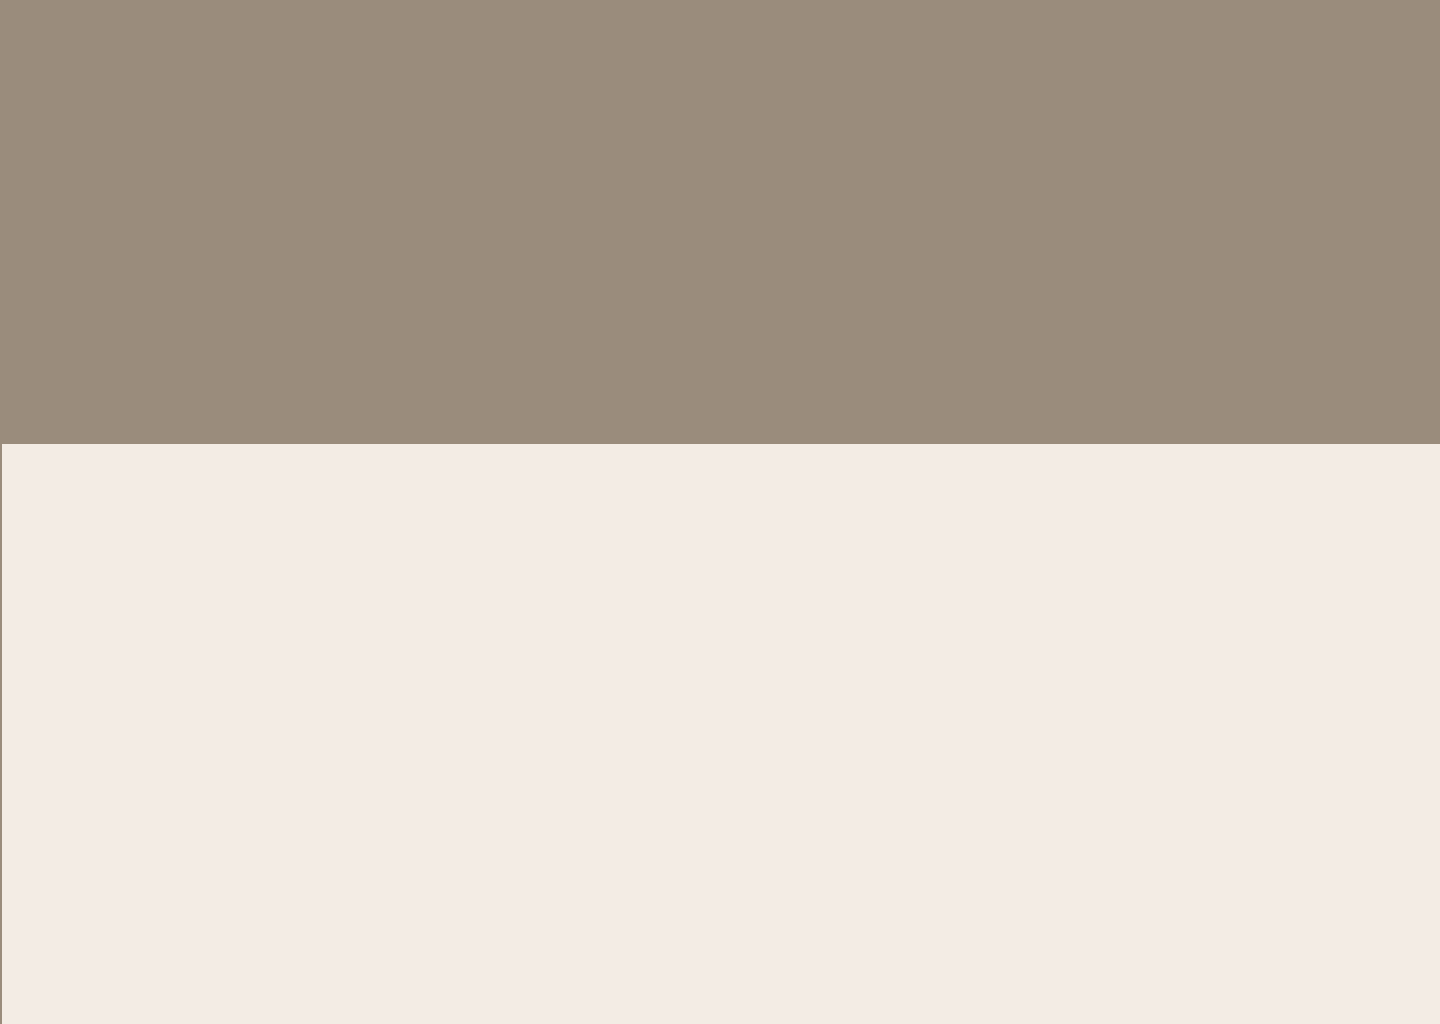
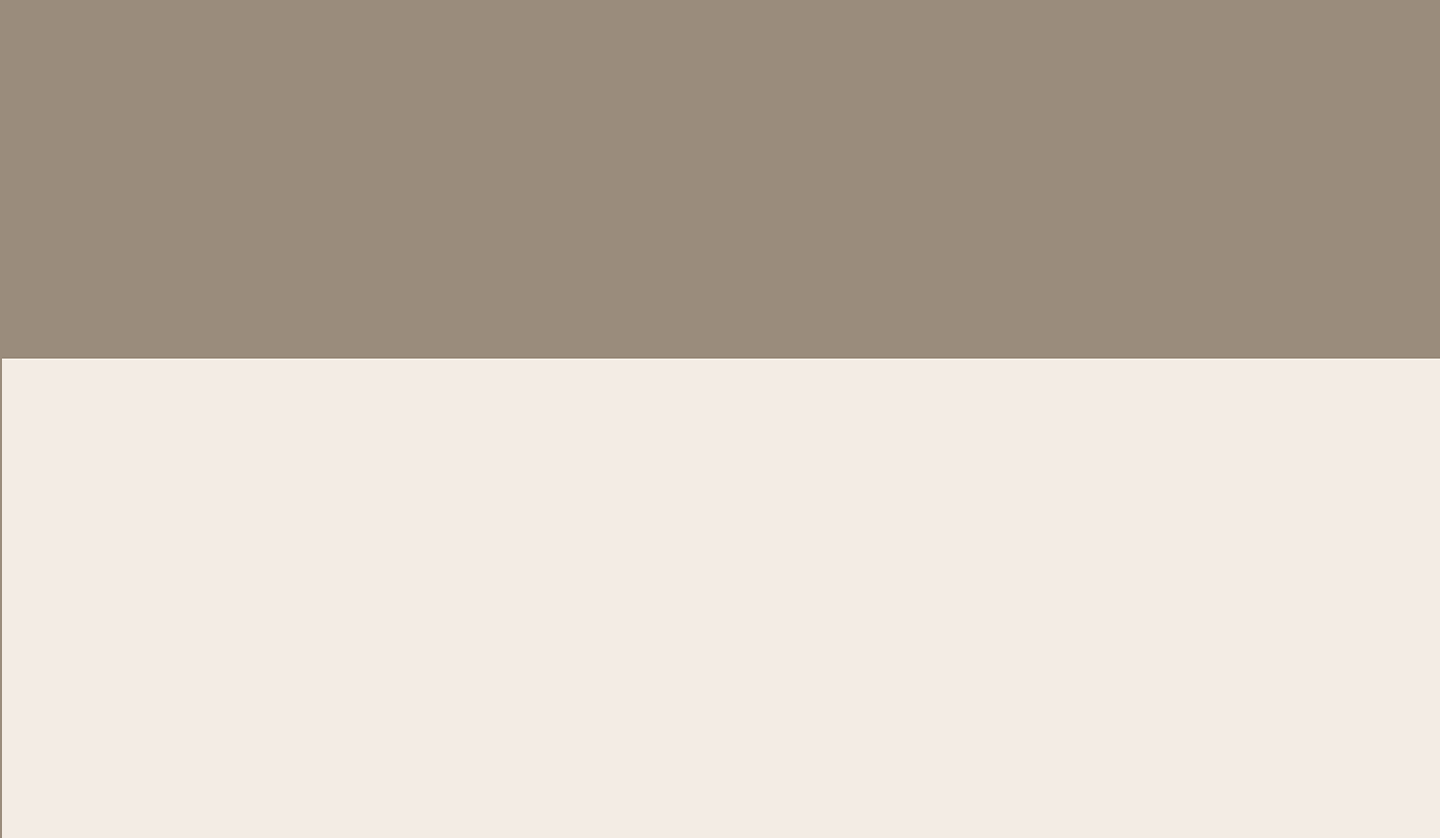
Update header

Changed region(s): [[0.0, 0.4033, 1.0, 0.4344]]

diff --git a/src/components/cost/cost.jsx b/src/components/cost/cost.jsx
@@ -8,11 +8,11 @@ const Cost =()=>{
     return(
         <div className={styles.costWork}>
              <h2 className={styles.costTitle}>Стоимость</h2> 
-             <p>      Оплата производится в следующем порядке: 50 процентов перед началом работ и обмерами (при заключении договора) и 50 процентов при сдаче  при сдаче готового дизайн проекта. 
+             <p>      Оплата производится в следующем порядке: 50 % перед началом работ и обмерами (при заключении договора) и 50 % при сдаче  при сдаче готового дизайн проекта. 
                 Все этапы по дизайн-проекту входят в данную стоимость. 
                 Авторский надзор оплачивается отдельно, все консультации в офисе и по телефону бесплатно.</p>
                 <p>Важно! Выполняем проекты по всей России с обмерами от заказчика. 
-                Пример готового альбома с дизайном проектом отправляем на почту по запросу.</p> 
+                Пример готового альбома с дизайном проекта отправляем на почту по запросу.</p> 
                 <div className={styles.calculator}>
                 <a href="a" className={styles.calculatorButton}>
                 Калькулятор вашего проекта

diff --git a/src/components/header/header.jsx b/src/components/header/header.jsx
@@ -1,5 +1,5 @@
 import {NavigationButton} from '../shared/NavigationButton'
-import pictureBackground from '../shared/assets/picture-background-1.png'
+import pictureBackground from '../shared/assets/picture-background.png'
 import './header.css'
 
 
@@ -16,14 +16,16 @@ export const Header =()=>{
 
     return <div className='header_fon'>
             <div className='asdasdasd'>         
-        
-        <div>
+         
+        <div className='aaa'>
                    {navigations.map((navigation)=><NavigationButton text={navigation.text} link={navigation.link}/>)}
+                
         </div>
-        <div>
-            <img src={pictureBackground} alt="img" />
             
-        </div>
+        
+        
+            
+        
     
     </div>
     </div>

diff --git a/src/components/header/header.css b/src/components/header/header.css
@@ -1,4 +1,21 @@
 .header_fon{
     background-image: url("./../shared/assets/header_fon.png");
     width: 100vw;
+    align-items: center;
+   padding-top: 30px;
+}
+.aaa{
+
+   
+ 
+}
+.asdasdasd{
+margin: 0 auto;
+align-items: center;
+background-image: url("./../shared/assets/picture-background.png");
+    background-repeat: no-repeat;
+    background-position: center ;    
+    height: 750px;
+    
+
 }

diff --git a/src/components/footer/footer.module.css b/src/components/footer/footer.module.css
@@ -1,7 +1,7 @@
 /* footer */
 .footer {
     width: 100vw;
-    background: #9A8C7C;
+    background: #9a8c7c;
     padding-top: 45px;
     padding-bottom: 100px;
     color: #FFFFFF;
